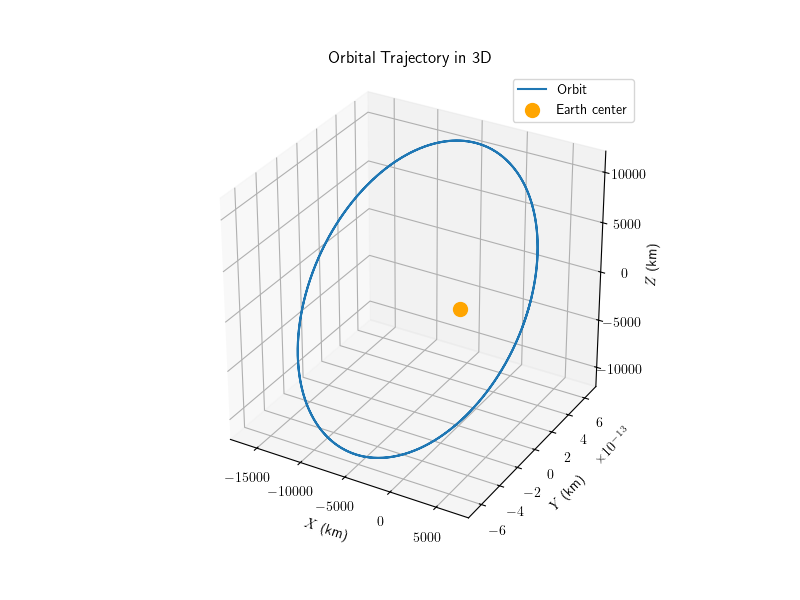
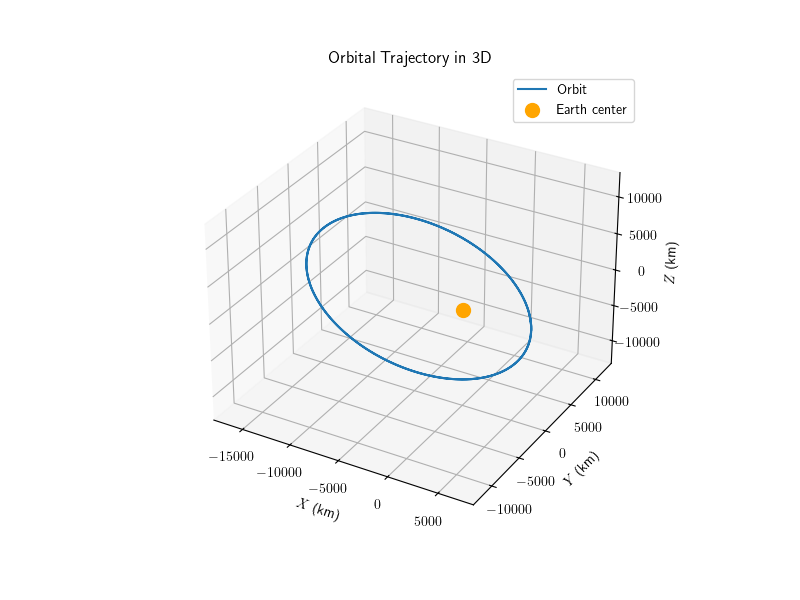
Error Correction 2

Changed region(s): [[0.2812, 0.18, 0.8438, 0.9], [0.75, 0.72, 0.7812, 0.75], [0.625, 0.84, 0.6562, 0.87]]

diff --git a/Assignment 5/main_5.py b/Assignment 5/main_5.py
@@ -193,10 +193,10 @@ if __name__ == "__main__":
     params = {
         "t_0": 0,  # Initial time (s)
         "ra": earth_radius + 10000,  # Apogee radius (km)
-        "rp": earth_radius + 400,  # Perigee radius (km)
+        "rp": earth_radius + 600,  # Perigee radius (km)
         "omega": np.radians(0),  # Argument of perigee (rad)
         "OMEGA": np.radians(0),  # Right ascension of ascending node (rad)
-        "i": np.radians(75),  # Inclination (rad)
+        "i": np.radians(0),  # Inclination (rad)
         "mu": mu,  # Gravitational parameter (km^3/s^2)
         "J": np.eye(3),  # Inertia matrix (3x3)
         "tau_p_b": np.zeros(3),  # Disturbance torque (3,)
@@ -209,7 +209,7 @@ if __name__ == "__main__":
     }
 
     # Initial conditions
-    theta = np.array([np.radians(30)])  # Initial true anomaly (rad)
+    theta = np.array([0.0])  # Initial true anomaly (rad)
     q_ob = np.array([0.0, 1.0, 0.0, 0.0])  # Initial quaternion
     w_ob_b = np.array([0.1, 0.2, -0.3])  # Initial angular velocity
     initial_state = np.concatenate((theta, q_ob, w_ob_b))
@@ -278,7 +278,7 @@ if __name__ == "__main__":
         print()
 
     # Choose static scene or animation
-    static = True
+    static = False
     if static:
         plotter = visualize_scene(data_log, time_index=100)
         plotter.show()
@@ -287,5 +287,5 @@ if __name__ == "__main__":
         animate_satellite(
             t,
             data_log,
-            f"Assignment 4/SatelliteAnimation_i{round(params['i'],2)}_omega{round(params['omega'],2)}_OMEGA{round(params['OMEGA'],2)}_q{np.round(params['q_od'],2)}_{round(t_span[1]/3600,2)}h_{n_steps}steps.gif",
+            f"Assignment 5/SatelliteAnimation_i{round(params['i'],2)}_omega{round(params['omega'],2)}_OMEGA{round(params['OMEGA'],2)}_q{np.round(params['q_od'],2)}_{round(t_span[1]/3600,2)}h_{n_steps}steps.gif",
         )

diff --git a/Assignment 2/main_2.py b/Assignment 2/main_2.py
@@ -200,9 +200,21 @@ ax.scatter(0, 0, 0, color="orange", s=100, label="Earth center")
 ax.set_xlabel(r"$X$ (km)")
 ax.set_ylabel(r"$Y$ (km)")
 ax.set_zlabel(r"$Z$ (km)")
-ax.set_box_aspect([1, 1, 1])
-ax.legend()
 ax.set_title("Orbital Trajectory in 3D")
+
+
+def set_axes_equal(ax):
+    limits = np.array([ax.get_xlim3d(), ax.get_ylim3d(), ax.get_zlim3d()])
+    spans = limits[:, 1] - limits[:, 0]
+    centers = np.mean(limits, axis=1)
+    radius = 0.5 * max(spans)
+    ax.set_xlim3d([centers[0] - radius, centers[0] + radius])
+    ax.set_ylim3d([centers[1] - radius, centers[1] + radius])
+    ax.set_zlim3d([centers[2] - radius, centers[2] + radius])
+
+
+set_axes_equal(ax)
+ax.legend()
 plt.savefig("Assignment 2/3D_Trajectory.png")
 plt.show()
 

diff --git a/Assignment 4/main_4.py b/Assignment 4/main_4.py
@@ -195,7 +195,7 @@ if __name__ == "__main__":
     params = {
         "t_0": 0,  # Initial time (s)
         "ra": earth_radius + 10000,  # Apogee radius (km)
-        "rp": earth_radius + 800,  # Perigee radius (km)
+        "rp": earth_radius + 600,  # Perigee radius (km)
         "omega": np.radians(0),  # Argument of perigee (rad)
         "OMEGA": np.radians(0),  # Right ascension of ascending node (rad)
         "i": np.radians(0),  # Inclination (rad)

diff --git a/Assignment 5/visualization_5.py b/Assignment 5/visualization_5.py
@@ -676,10 +676,7 @@ def visualize_scene(
     )
 
     # --- Optional camera setup (you can adjust as you prefer) ---
-    # Example: place the camera far above the North Pole
-    # plotter.camera.position = (0, 0, 20 * earth_radius)
     plotter.camera.focal_point = (0, 0, 0)  # look at Earth's center
-    # plotter.camera.up = (0, 1, 0)
 
     # Return the plotter so user can call plotter.show() or do further manipulations
     return plotter

diff --git a/Assignment 4/visualization_4.py b/Assignment 4/visualization_4.py
@@ -772,8 +772,8 @@ def animate_satellite(t, data_log, gif_name):
     # Extracting satellite position
     r_i_array = np.array(data_log["r_i"])
 
-    # plotter.view_vector([0, 0, -1])
-    # plotter.camera.position = (0, 0, 20 * earth_radius)
+    plotter.view_vector([0, 0, -1])
+    plotter.camera.position = (0, 0, 20 * earth_radius)
 
     # Initialize the gif
     plotter.open_gif(gif_name)
